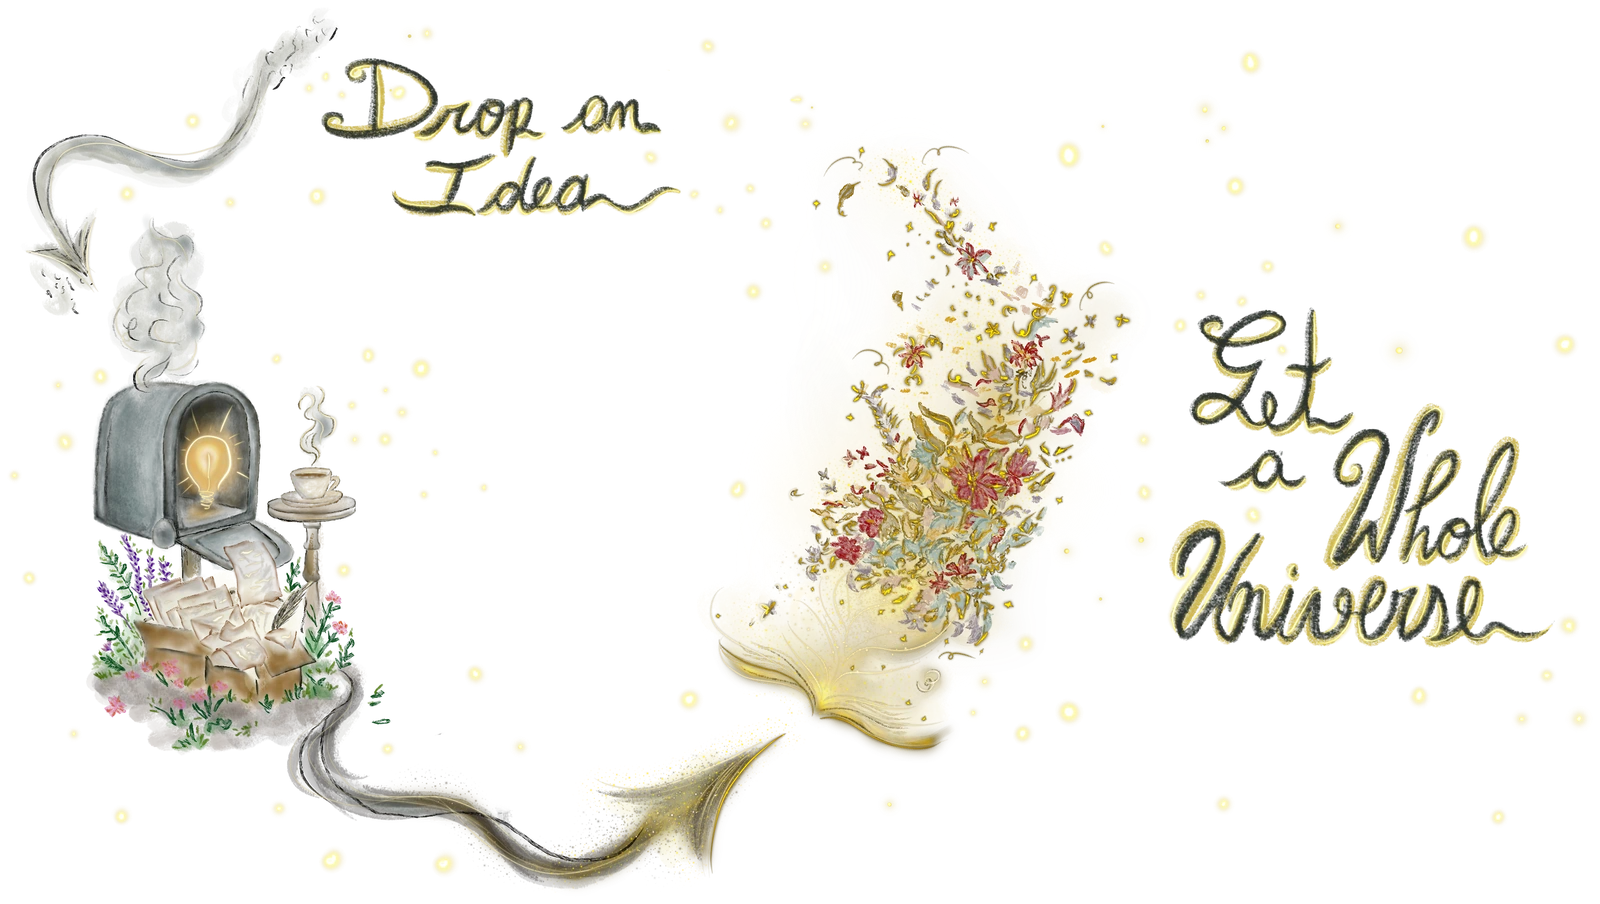
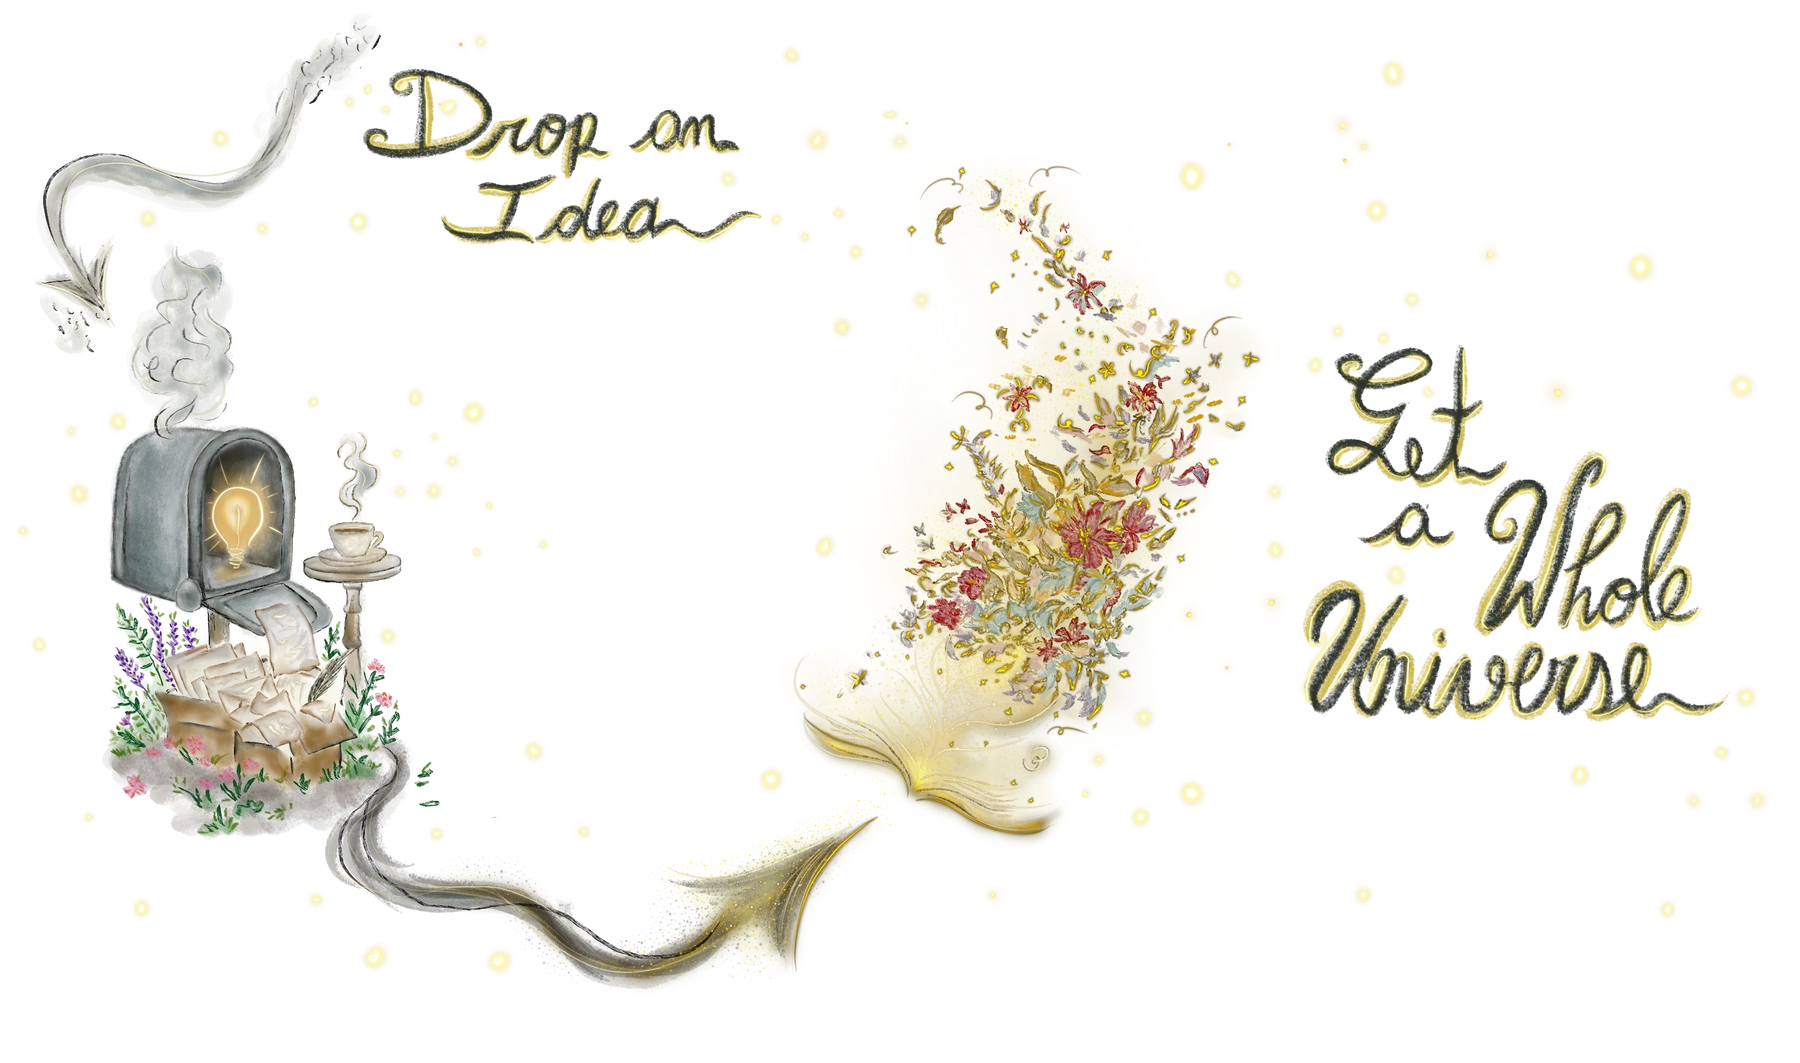
Publish home hero mobile tweak, Services mailbox asset, and cache bust.
Bump stylesheet query params so phones reload Marquise overlays and hero CSS instead of serving the old stacked-panel layout from cache.

diff --git a/es/portfolio/narrative/index.html b/es/portfolio/narrative/index.html
@@ -58,7 +58,7 @@
   <link rel="stylesheet" href="../../../portfolio/narrative/css/narrative-base.css">
   <link rel="stylesheet" href="../../../portfolio/narrative/css/narrative-components.css">
   <link rel="stylesheet" href="../../../portfolio/narrative/css/block-page-hero.css">
-  <link rel="stylesheet" href="../../../portfolio/narrative/css/block-marquise.css">
+  <link rel="stylesheet" href="../../../portfolio/narrative/css/block-marquise.css?v=30c133b">
   <link rel="stylesheet" href="../../../portfolio/narrative/css/block-lolo.css">
   <!-- JSON-LD: VisualArtwork: spec Section 16.3 -->
   <script type="application/ld+json">

diff --git a/nl/portfolio/narrative/index.html b/nl/portfolio/narrative/index.html
@@ -58,7 +58,7 @@
   <link rel="stylesheet" href="../../../portfolio/narrative/css/narrative-base.css">
   <link rel="stylesheet" href="../../../portfolio/narrative/css/narrative-components.css">
   <link rel="stylesheet" href="../../../portfolio/narrative/css/block-page-hero.css">
-  <link rel="stylesheet" href="../../../portfolio/narrative/css/block-marquise.css">
+  <link rel="stylesheet" href="../../../portfolio/narrative/css/block-marquise.css?v=30c133b">
   <link rel="stylesheet" href="../../../portfolio/narrative/css/block-lolo.css">
   <!-- JSON-LD: VisualArtwork: spec Section 16.3 -->
   <script type="application/ld+json">

diff --git a/home/css/block-hero.css b/home/css/block-hero.css
@@ -38,11 +38,6 @@
   outline-offset: 6px;
 }
 
-.hm-hero__logo-picture {
-  display: block;
-  width: 100%;
-}
-
 .hm-hero__logo {
   width: 100%;
   height: auto;
@@ -70,7 +65,7 @@
   letter-spacing: 0.02em;
 }
 
-/* Mobile — cropped wordmark at full width (no overscale) */
+/* Mobile only — cropped wordmark, full bleed; desktop rules above unchanged */
 @media (max-width: 47.99rem) {
   .hm-hero {
     overflow-x: clip;
@@ -96,6 +91,7 @@
   }
 
   .hm-hero__logo-picture {
+    display: block;
     width: 100vw;
     margin-left: calc(50% - 50vw);
   }

diff --git a/es/services/index.html b/es/services/index.html
@@ -164,7 +164,7 @@
           src="../../assets/services/illustration-process-mailbox-dropoff.webp"
           alt="Ilustración de un buzón resplandeciente y rebosante de cartas, conectado por un camino de cinta dorada a un libro abierto que florece entre flores y estrellas, con la inscripción manuscrita Drop an Idea y Get a Whole Universe. Haz clic para ampliar."
           class="svc-illustration__img"
-          width="1600" height="904"
+          width="1800" height="1063"
           loading="lazy"
           decoding="async"
         />

diff --git a/nl/services/index.html b/nl/services/index.html
@@ -164,7 +164,7 @@
           src="../../assets/services/illustration-process-mailbox-dropoff.webp"
           alt="Illustratie van een gloeiende, overvolle brievenbus, verbonden door een pad van goudkleurig lint met een open boek dat bloeit tussen bloemen en sterren, met de handgeschreven woorden Drop an Idea en Get a Whole Universe. Klik om te vergroten."
           class="svc-illustration__img"
-          width="1600" height="904"
+          width="1800" height="1063"
           loading="lazy"
           decoding="async"
         />

diff --git a/services/index.html b/services/index.html
@@ -184,7 +184,7 @@
           src="../assets/services/illustration-process-mailbox-dropoff.webp"
           alt="Illustration of a glowing mailbox overflowing with letters, connected by a golden ribboned path to an open book blooming with flowers and stars, hand-lettered with the words Drop an Idea and Get a Whole Universe. Click to enlarge."
           class="svc-illustration__img"
-          width="1600" height="904"
+          width="1800" height="1063"
           loading="lazy"
           decoding="async"
         />

diff --git a/es/index.html b/es/index.html
@@ -58,7 +58,7 @@
   <link rel="stylesheet" href="../home/css/tokens.css">
   <link rel="stylesheet" href="../home/css/home-base.css">
   <link rel="stylesheet" href="../home/css/home-components.css">
-  <link rel="stylesheet" href="../home/css/block-hero.css">
+  <link rel="stylesheet" href="../home/css/block-hero.css?v=30c133b">
   <link rel="stylesheet" href="../home/css/block-selected-gallery.css">
   <link rel="stylesheet" href="../home/css/block-services-teaser.css">
 

diff --git a/nl/index.html b/nl/index.html
@@ -58,7 +58,7 @@
   <link rel="stylesheet" href="../home/css/tokens.css">
   <link rel="stylesheet" href="../home/css/home-base.css">
   <link rel="stylesheet" href="../home/css/home-components.css">
-  <link rel="stylesheet" href="../home/css/block-hero.css">
+  <link rel="stylesheet" href="../home/css/block-hero.css?v=30c133b">
   <link rel="stylesheet" href="../home/css/block-selected-gallery.css">
   <link rel="stylesheet" href="../home/css/block-services-teaser.css">
 

diff --git a/portfolio/narrative/index.html b/portfolio/narrative/index.html
@@ -59,7 +59,7 @@
   <link rel="stylesheet" href="css/narrative-base.css">
   <link rel="stylesheet" href="css/narrative-components.css">
   <link rel="stylesheet" href="css/block-page-hero.css">
-  <link rel="stylesheet" href="css/block-marquise.css">
+  <link rel="stylesheet" href="css/block-marquise.css?v=30c133b">
   <link rel="stylesheet" href="css/block-lolo.css">
   <!-- JSON-LD: VisualArtwork: spec Section 16.3 -->
   <script type="application/ld+json">

diff --git a/index.html b/index.html
@@ -59,7 +59,7 @@
   <link rel="stylesheet" href="home/css/tokens.css">
   <link rel="stylesheet" href="home/css/home-base.css">
   <link rel="stylesheet" href="home/css/home-components.css">
-  <link rel="stylesheet" href="home/css/block-hero.css">
+  <link rel="stylesheet" href="home/css/block-hero.css?v=30c133b">
   <link rel="stylesheet" href="home/css/block-selected-gallery.css">
   <link rel="stylesheet" href="home/css/block-services-teaser.css">
 
